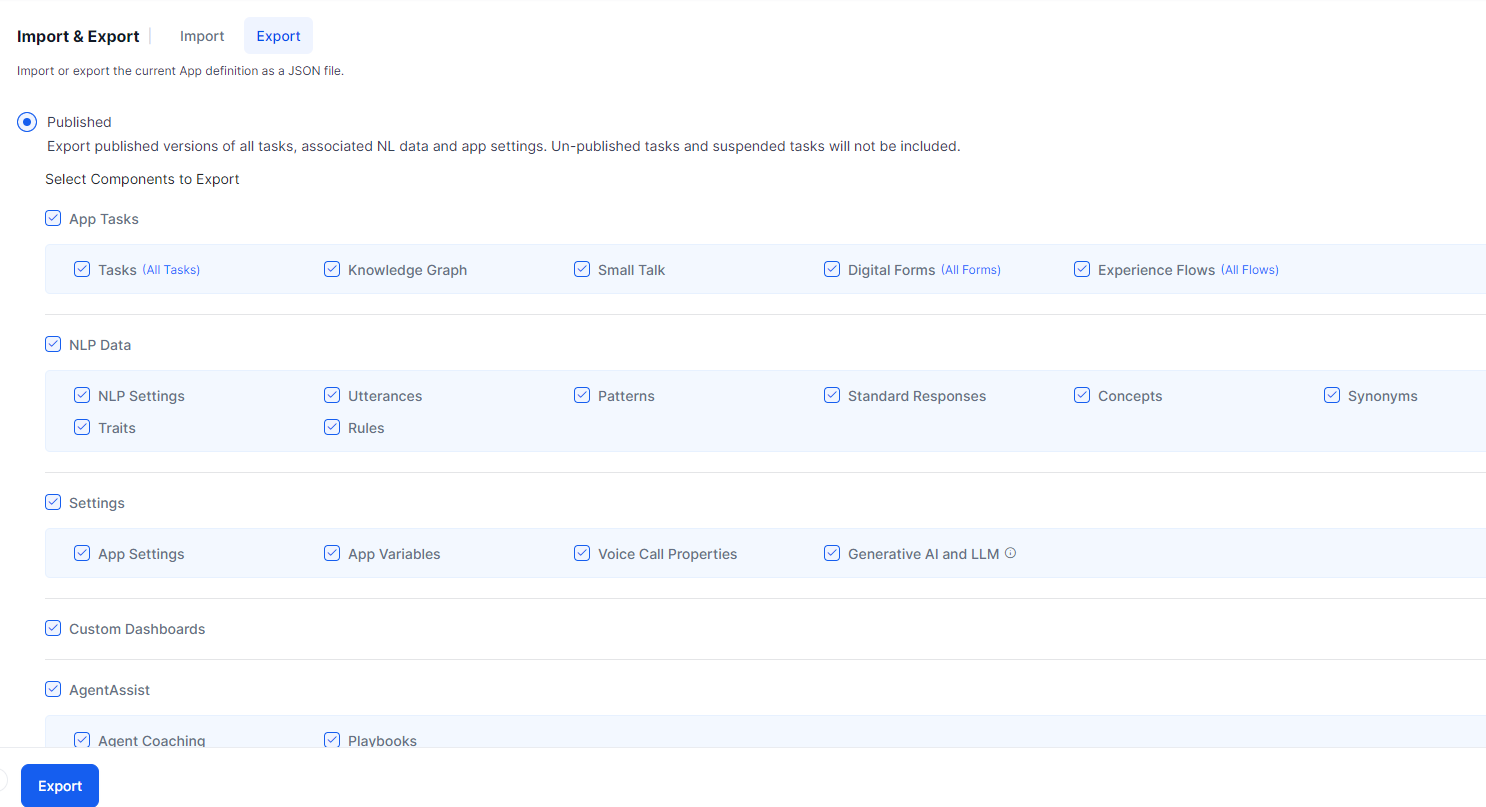
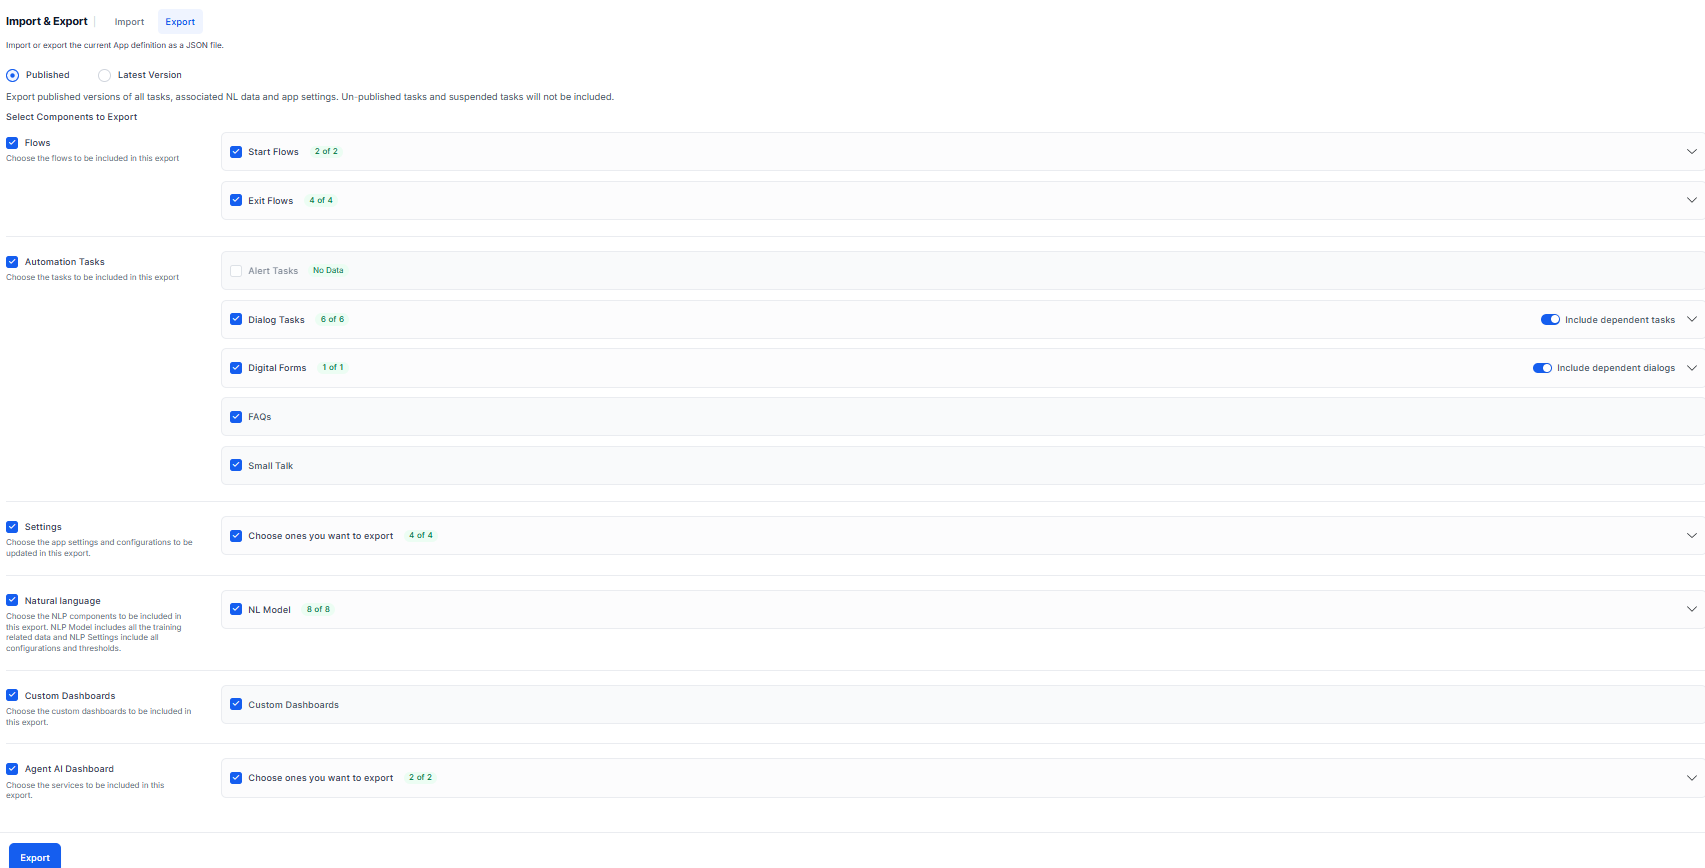
updated App Management

diff --git a/docs/xo/deploy/bot-management.md b/docs/xo/deploy/bot-management.md
@@ -35,7 +35,7 @@ You can import tasks and configurations of a specific assistant into a new or ex
 
 To import a Virtual Assistant, follow these steps:
 
-1. Open the assistant you want to export.
+1. Open the assistant you want to import.
 2. Select the **Deploy** tab from the left menu.
 3. Select **Import & Export** under **DEPLOY MANAGEMENT**.
 4. On the Import & Export page, select the **Import** tab.
@@ -73,11 +73,11 @@ To import a Virtual Assistant, follow these steps:
 
     <img src="../images/bm(4).png" alt="Incremental import" title="Incremental import" style="border:1px solid gray; zoom:60%;">
 
-    * **Bot Tasks**: Here, you can select to import Tasks only (with or without comments), Knowledge Graph, Small Talk, or Digital Forms.
+    * **Automation Tasks**: Here, you can select to import Tasks only (with or without comments), Dialog tasks, Digital Forms, Small Talk, or FAQs.
 
         !!! Note
 
-            If you want to import one or more Bot Tasks, also select the **NLP Data** settings, as they are linked. For example, the utterances assigned to dialog tasks are not imported if you don’t select the NLP Data settings, causing problems in identifying the dialog properly.
+            If you want to import one or more Automation Tasks, also select the **NLP Data** settings, as they are linked. For example, the utterances assigned to dialog tasks are not imported if you don’t select the NLP Data settings, causing problems in identifying the dialog properly.
 
     * **NLP Data**: Here you can import Synonyms, Concepts, Traits, Rules, Utterances, Patterns, and Standard Responses. ML Utterances and Patterns can either be Appended or Replaced.
             
@@ -91,12 +91,12 @@ To import a Virtual Assistant, follow these steps:
 
         3. The imported Traits, Synonyms, and Concepts will replace those in the target VA. Rules can be imported along with their tagged dialog tasks.
 
-    * **Settings**: Bot Settings, Bot Variables, Voice Call Properties, Generative AI and LLM. The Generative AI and LLM setting includes:  
+    * **Settings**: App Settings, App Variables, Voice Call Properties, Generative AI and LLM. The Generative AI and LLM setting includes:  
 
         * Integrations
         * Prompts and Requests Library
         * Feature Mappings
-        * Safeguards
+        * Guardrails
         * DialogGPT (Conversation Types and Configurations) 
         
     * **Custom Dashboards**: This is useful in case you have created custom dashboards under the Analyze section and want to import them to the new VA as well. 
@@ -109,11 +109,11 @@ To import a Virtual Assistant, follow these steps:
             While backing up is an optional choice, we strongly recommend you do so, especially when choosing Full Import, as you cannot recover the configurations after the imported assistant replaces them.
 
 9. Click **Proceed** to start the import.
-10. After the import is completed, the following success message appears. Click **Done**.
+10. After the import is completed, a success message appears. Click **Done**.
     
     !!! Note
 
-        Bot import would fail if the assistant has been restored but not published after the restore. 
+        App import would fail if the assistant has been restored but not published after the restore. 
 
 ### Creating a New Assistant Using the Import Option
  
@@ -178,9 +178,9 @@ To import a VA while creating it, follow these steps:
    </td>
   </tr>
   <tr>
-   <td>Knowledge Graph, Bot Synonyms and Standard Responses
+   <td> Bot Synonyms and Standard Responses
    </td>
-   <td>Existing knowledge graph, VA synonyms, and standard responses in the target assistant are replaced with the imported ones.
+   <td>Existing VA synonyms, and standard responses in the target assistant are replaced with the imported ones.
    </td>
   </tr>
   <tr>
@@ -203,7 +203,7 @@ To import a VA while creating it, follow these steps:
    <br>
     – Keeps existing prompts, only adds new ones.
     <br>
-    – Replaces all feature mappings, custom instructions, safeguards, and DailogGPT.
+    – Replaces all feature mappings, custom instructions, Guardrail, and DailogGPT.
     <br>
     – Preserve existing integrations.
     <br>
@@ -227,7 +227,7 @@ You can export a VA’s definition and configuration using the Export option.
 When you export an assistant, it downloads a zipped file with the following parameters:
 
 * **appDefinition.json**: Includes metadata, tasks, VA and task-level synonyms, utterances, patterns, knowledge graph, standard responses, flows, and IDPs. You can select specific items to export from tasks, NLP data – NLP settings, utterances, standard responses – and Settings – VA settings, variables, IVR settings- while exporting the assistant.
-* **config.json**: Includes VA settings, VA variables, and IVR settings.
+* **config.json**: Includes App settings, APP variables, and IVR settings.
 * **Icon.png**: Includes the assistant icon.
 * **&lt;_Custom ScriptFile Name_.js> (if available)**: Includes a script file with JavaScript functions. When you upload this file, you can access the functions in the file from anywhere in the assistant.
 
@@ -237,7 +237,7 @@ When you export an assistant, it downloads a zipped file with the following para
 
 ### Export Modes
 
-You can export assistants in two modes: **Published** and **Latest Version**. Depending on the mode that is selected, the corresponding versions of the tasks are exported. You can select specific components to export from the tasks, NLP data, and VA settings in both the modes. Further individual Tasks can also be selected.
+You can export assistants in two modes: **Published** and **Latest Version**. Depending on the mode that is selected, the corresponding versions of the tasks are exported. You can select specific components to export from the tasks, NLP data, and VA settings in both modes. Further individual Tasks can also be selected.
 
 #### Published Mode
 
@@ -344,15 +344,15 @@ When you export a VA in the Latest mode, the latest versions of the  tasks get e
 #### Steps in Exporting the Assistant
 
 1. Open the assistant you want to export.
-2. Select **Deploy** tab from the left menu.
+2. Select the **Deploy** tab from the left menu.
 3. Select **Import & Export** under **DEPLOY MANAGEMENT**.
 4. On the Import & Export page, select the **Export** tab.
 5. In the Export tab, select either **Published** or **Latest Version** exporting mode.
 6. By default, all the components are selected for export. Deselect the items that you do not want to export.
 
-    <img src="../images/bm(10).png" alt=App export" title="App export" style="border:1px solid gray; zoom:60%;">
+    <img src="../images/bm(10).png" alt="App export" title="App export" style="border:1px solid gray; zoom:60%;">
 
-7. For Tasks, you can further choose to export only select tasks. By default All Tasks are selected. Click the All Tasks link to open **Select Tasks** dialog to choose the tasks you want to export.
+7. For Automation Tasks, you can further choose to export only selected tasks. By default All Tasks are selected. 
 
     !!! note
 

diff --git a/docs/xo/release-notes/11.x/automation-ai.md b/docs/xo/release-notes/11.x/automation-ai.md
@@ -23,7 +23,7 @@ DialogGPT's comprehensive analytics provide detailed tracking of user interactio
 #### Redesigned Export Interface for Improved User Experience
 
 The Import / Export interface has been redesigned to mirror the Publish layout. A new top-level "Flows" section and reorganized "Automation Tasks" improve component organization. The update maintains backward compatibility and provides clearer section names and descriptions for an intuitive, cohesive experience.
-[Learn more :octicons-arrow-right-24:]()
+[Learn more :octicons-arrow-right-24:](../../deploy/bot-management.md)
 
 
 <hr>
